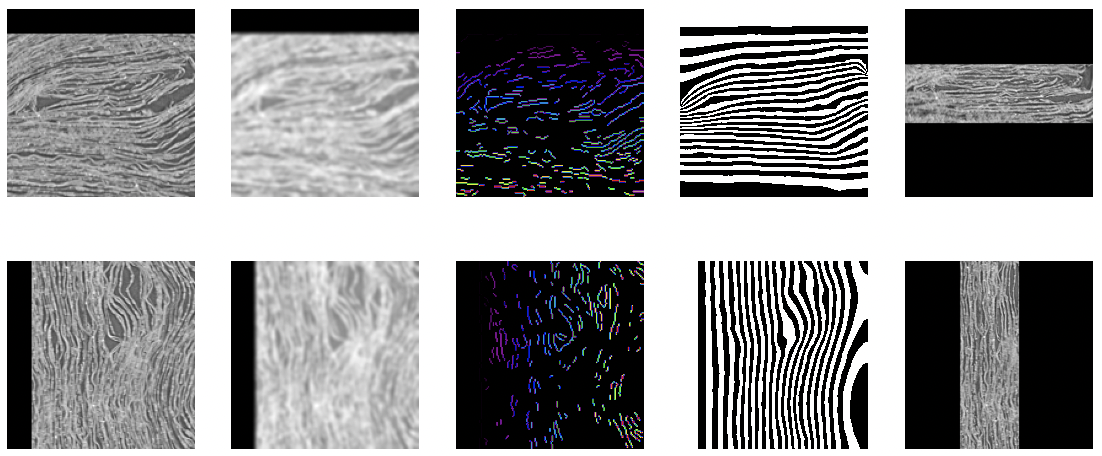
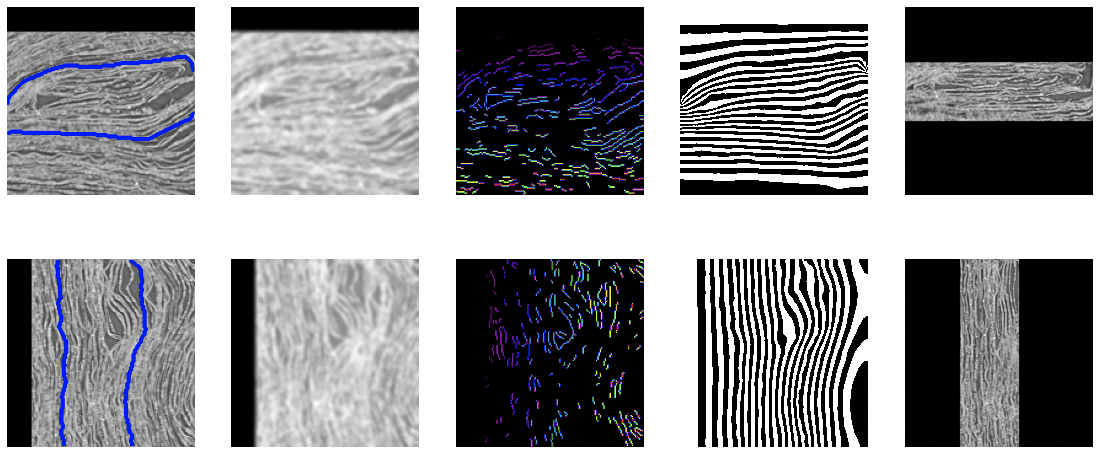
complete readme

diff --git a/app.py b/app.py
@@ -224,6 +224,9 @@ if __name__ == "__main__":
 
     boundary = boundary_temp
 
+    axes[0].contour(boundary[d//2, :, :] * 255, colors='blue', linewidths=0.5)
+    axes[5].contour(boundary[:, :, w//2] * 255, colors='blue', linewidths=0.5)
+
     # blur & edge & skeleton
     blur_stack_z = np.zeros_like(tif_stack)
     edge_stack_z = np.zeros_like(tif_stack)

diff --git a/readme.md b/readme.md
@@ -44,9 +44,39 @@ By aligning the internal potential field with these features, users can intuitiv
 
 ![Feature-Aligned Navigation](sketch/img4.png)  
 
-This method allows data exploration aligned with its inherent structures, offering insights that may be less apparent with traditional slicing methods. 
+This method allows data exploration aligned with its inherent structures, offering insights that may be less apparent with traditional slicing methods.
 
+## Result  
 
+Below are the initial results of my experiment:  
+
+![Visualization Workflow](sketch/plot.png)  
+
+- **First Row:** Original data slices along the z and y axes, with electrodes shown as blue curves.  
+- **Second Row:** The result of applying a blur to the data.  
+- **Third Row:** Edges extracted from the blurred data, represented as a colored map. These edges act as "metal plates," the internal features used to adjust the electric potential, as described earlier.  
+- **Fourth Row:** Black-and-white stripe patterns showing the electric potential after iterative updates.  
+- **Fifth Row:** Equipotential lines extracted from the potential field, forming the final flattened surface representation.  
+
+Here is a video showcasing the final results. When navigating along the y-axis, the data is explored primarily in the normal direction of the surface, revealing extensive information about the papyrus fiber structures. Currently, only basic edge detection is used to adjust the potential field. Incorporating more precise feature data, such as fibers or segments, would further enhance the visualization.  
+
+[![Watch the video](https://img.youtube.com/vi/SjwqX3PbRD4/hqdefault.jpg)](https://www.youtube.com/watch?v=SjwqX3PbRD4)
+
+## Further Studies
+
+This visualization method opens up several new possibilities:  
+
+- **Surface Flattening for Extended Analysis:**  
+  By enabling large-scale surface flattening, this approach extends the concept of subvolumes. It allows 2D models to make inferences directly over broader regions of a 3D space. *(Illustrations to be added.)*  
+
+- **Ring Electrode Configuration for Scroll Exploration:**  
+  With sufficient memory and computational resources, the method could treat the outermost edge and the central "core" of a scroll as the two ends of a ring electrode. This configuration enables the computation of internal potential gradients, making it possible to "page through" the scroll from its outermost layers inward. *(Illustrations to be added.)*  
+
+- **Dynamic Updates for Interactive Visualization:**  
+  The ability to dynamically update the potential field makes interactive visualizations feasible. Boundaries could be automatically generated, or specific regions manually adjusted, allowing users to tailor the visualization to current needs. *(Illustrations to be added.)*  
+
+- **Mapping Original and Flattened Points:**  
+  After flattening the data, users may wish to trace specific points back to their original positions. Perhaps potential solution could involve visualizing intermediate states using linear superposition of potentials. *(Illustrations to be added.)*  
 
 
 
